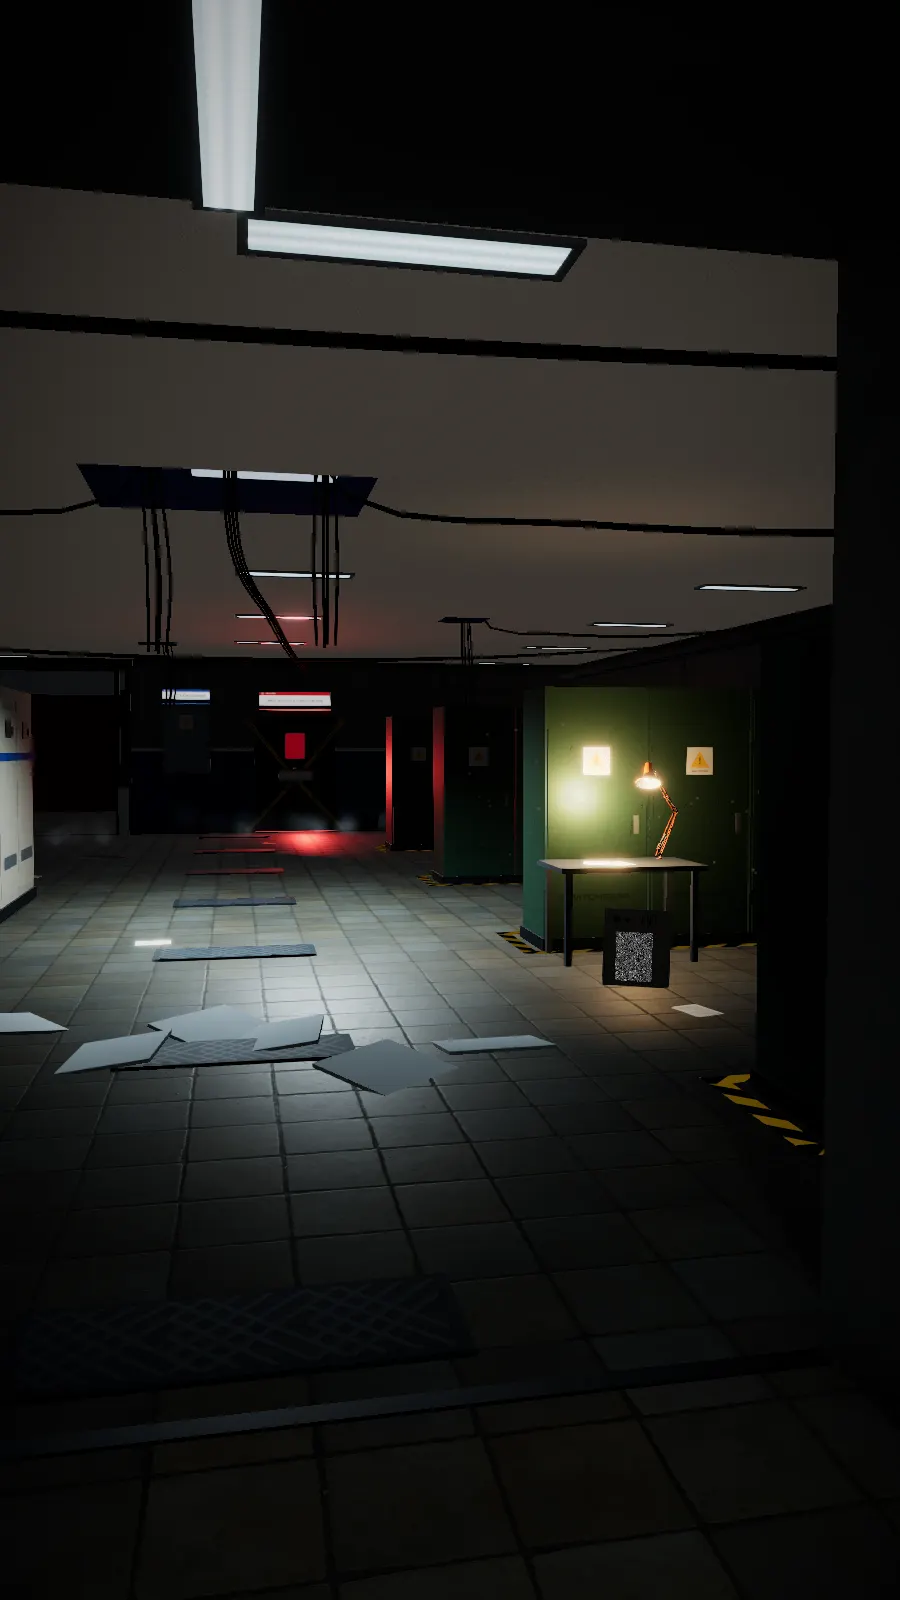
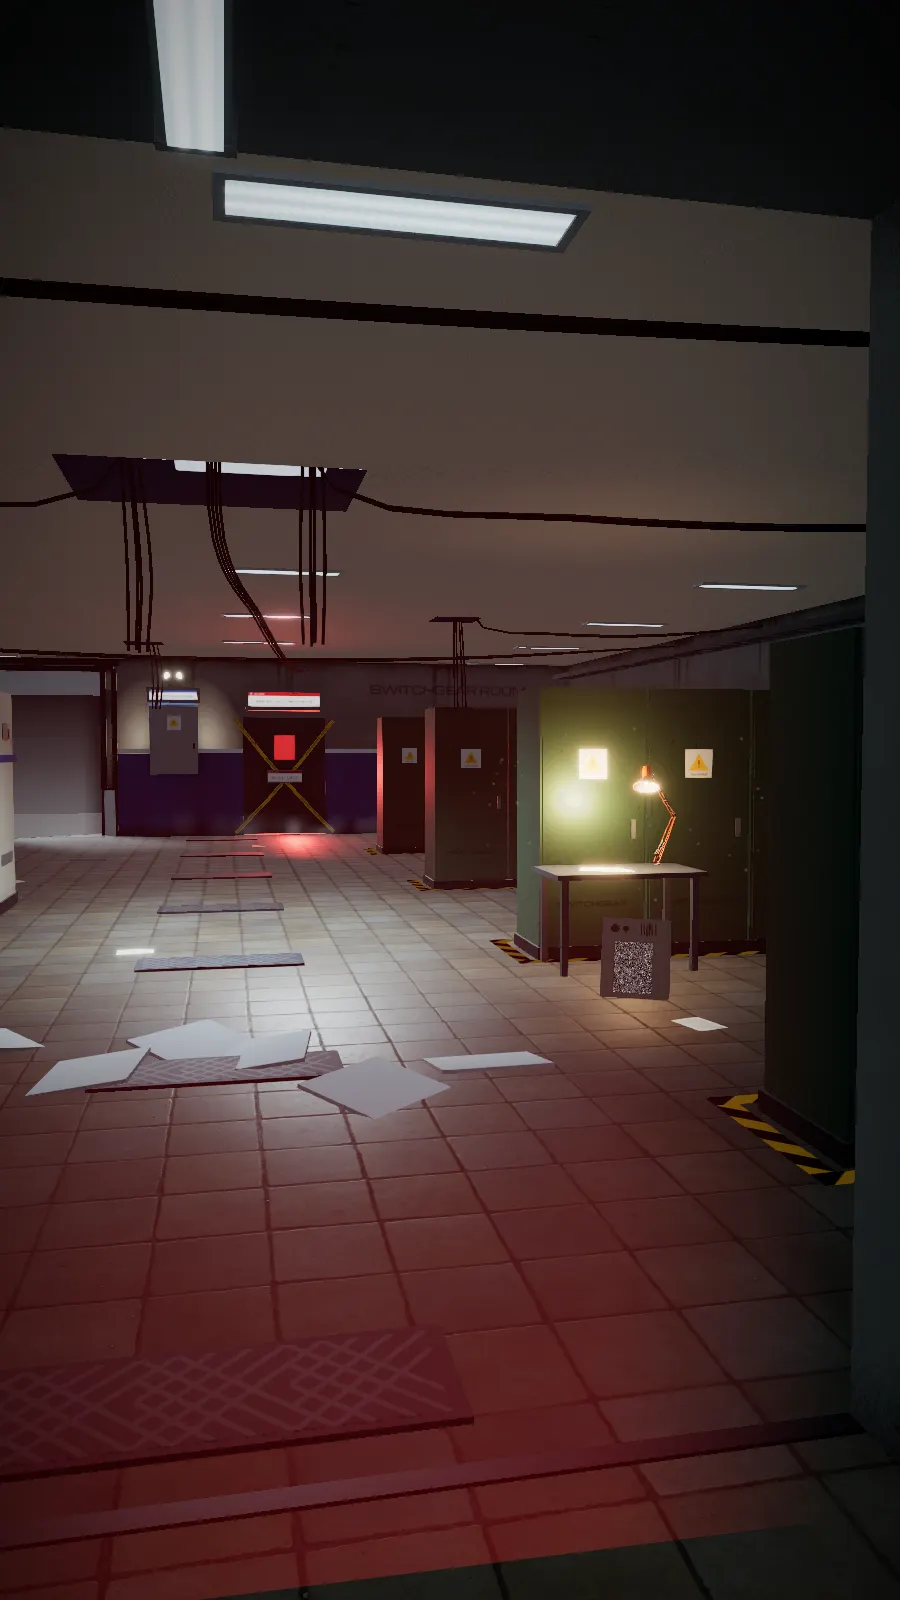
Make faction.tools the recreation flagship and retire torn.bet
The arcade cabinet, its hotspot and the card anchor now carry faction.tools.
The card notes that torn.bet ran as a large third party casino until new
rules on third party gambling closed it. Stills re-rendered.

diff --git a/src/scenes/walk/stages/recreation/dressing.ts b/src/scenes/walk/stages/recreation/dressing.ts
@@ -73,7 +73,7 @@ export async function buildDressing(ctx: StageContext, root: THREE.Group): Promi
     await add(cabinet);
     hotspots.push({ id: key, kind: 'project', label: title, object: cabinet, stop: 'recreation' });
     // Off the cabinet's own x, so a card still lands on its machine when the row is re-spaced.
-    if (key === 'torn-bet') anchors.set('torn-bet', new THREE.Vector3(x, 2.15, Z0 + 1.0));
+    if (key === 'faction-tools') anchors.set('faction-tools', new THREE.Vector3(x, 2.15, Z0 + 1.0));
   }
   // The sign over the row, on the wall above the marquees. A lit box at the head of an aisle is how
   // a building this size tells you what a corner of a room is for, and it is what makes the row the

diff --git a/src/scenes/walk/stages/recreation/layout.ts b/src/scenes/walk/stages/recreation/layout.ts
@@ -63,7 +63,7 @@ export const CABINET_Z = Z0 + 0.45;
  * -28.1, where the camera parks, so the hold looks straight down the middle rather than at one end.
  */
 export const CABINETS: [string, string, number, string, number, string][] = [
-  ['torn-bet', 'torn.bet', -26.9, '#3D7BE0', 0, 'CASINO'],
+  ['faction-tools', 'faction.tools', -26.9, '#3D7BE0', 0, 'FACTION OPS'],
   ['kayou-bot', 'MLPEKAYOU', -28.1, '#D7383A', 0, 'DISCORD BOT'],
   ['character-bot', 'character bot', -29.3, '#3FD47A', 0, 'DISCORD BOT'],
 ];

diff --git a/src/content/projects/faction-tools.md b/src/content/projects/faction-tools.md
@@ -1,0 +1,18 @@
+---
+title: faction.tools
+wing: recreation
+status: operational
+flagship: true
+summary: The management layer for Torn City factions, covering members, activity and wars.
+stack: [TypeScript, Node, Postgres]
+links:
+  - label: faction.tools
+    href: https://faction.tools
+exhibit:
+  anchor: faction-tools
+order: 10
+contentWarning: Built for the game Torn City. Some of the game's themes are adult.
+---
+Torn City is a text-based MMO with around 100,000 daily players. Factions are its guilds, and they come with a lot of bookkeeping. faction.tools is the management layer for the members, activity and wars that leaders otherwise keep in spreadsheets.
+
+Before it, I ran torn.bet, a large and active third party casino for the game's currency: games, wallets, payouts, and the anti-abuse work that comes with real stakes. It had daily users until new rules on third party gambling meant it had to shut down, and I closed it in line with them.
